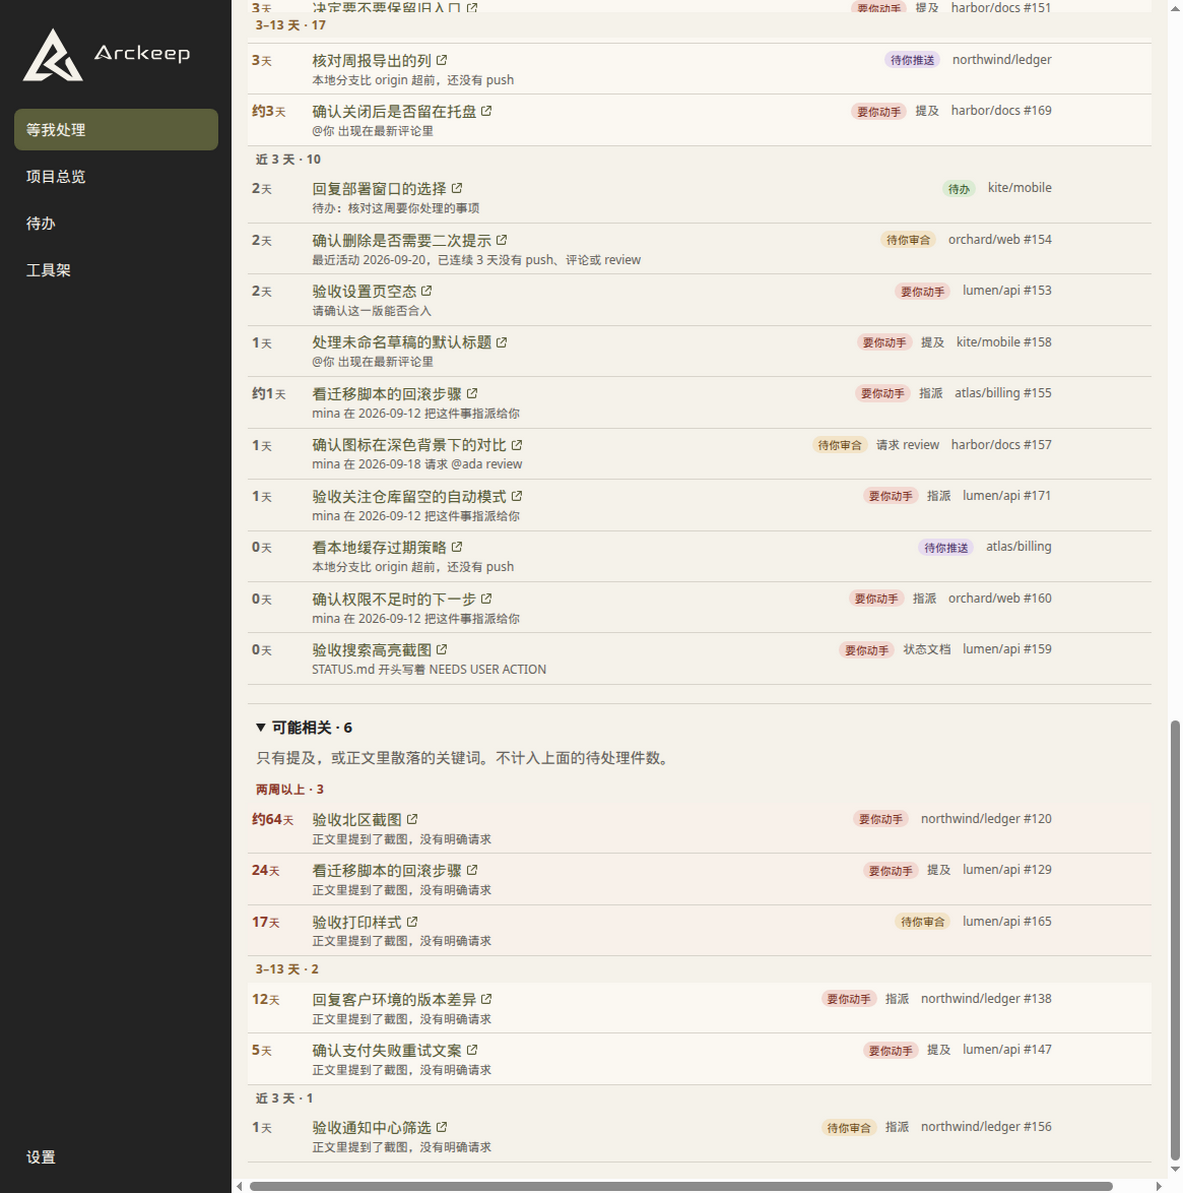
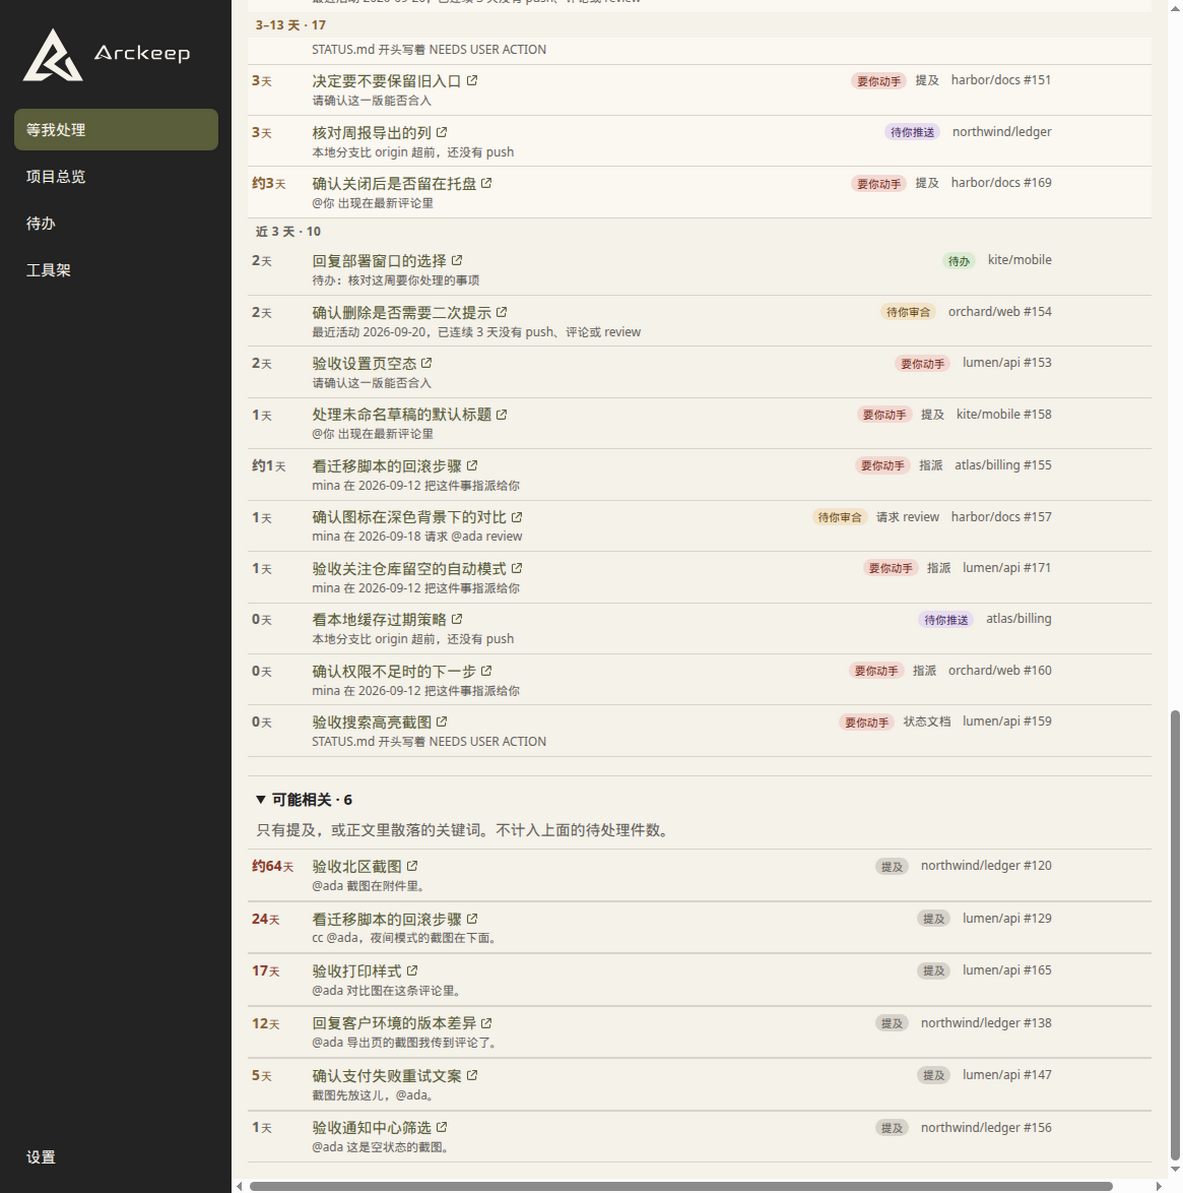
Keep weak rows from looking like work on the main list.
They use a gray mention label, show the matched sentence, stay one list, and start expanded only when the main list is empty.

Changed region(s): [[0.213, 0.0, 0.5782, 0.9925], [0.6695, 0.0, 0.9129, 0.6203], [0.6999, 0.6823, 0.9129, 0.9614]]

diff --git a/src/renderer/waiting-page.ts b/src/renderer/waiting-page.ts
@@ -10,6 +10,19 @@ const ACTION_CLASS: Record<string, string> = {
   '待办': 'act-todo'
 }
 
+/** Weak rows are not work items. They never wear the main-list action chip. */
+export const WEAK_ROW_LABEL = '提及'
+
+export function rowActionLabel(row: { tier: 'strong' | 'weak', action: string }): string | null {
+  if (row.tier === 'weak') return WEAK_ROW_LABEL
+  return row.action || '要你动手'
+}
+
+/** Open only when the main list has nothing else to show. */
+export function maybeSectionStartsOpen(mainCount: number): boolean {
+  return mainCount === 0
+}
+
 function el<K extends keyof HTMLElementTagNameMap>(
   tag: K,
   attrs: Record<string, string> = {},
@@ -147,7 +160,7 @@ function paint(host: HTMLElement, snapshot: WaitingSnapshot, handlers: {
     } else if (mainRows.length > 0) {
       page.append(renderGroups(mainRows, handlers))
     }
-    if (maybeRows.length > 0) page.append(renderMaybe(maybeRows, handlers))
+    if (maybeRows.length > 0) page.append(renderMaybe(maybeRows, handlers, maybeSectionStartsOpen(mainRows.length)))
   }
   host.replaceChildren(page)
 }
@@ -174,11 +187,14 @@ function renderMaybe(rows: readonly WaitingRow[], handlers: {
   hideRepo: (repo: string) => void
   open: (url: string) => void
   todos: () => void
-}): HTMLElement {
+}, startsOpen: boolean): HTMLElement {
   const details = el('details', { class: 'maybe-related' })
+  details.open = startsOpen
   details.append(el('summary', {}, [maybeRelatedLabel(rows.length)]))
   details.append(el('p', { class: 'hint' }, ['只有提及，或正文里散落的关键词。不计入上面的待处理件数。']))
-  details.append(renderGroups(rows, handlers))
+  const list = el('div', { class: 'maybe-list' })
+  for (const row of rows) list.append(renderRow(row, handlers))
+  details.append(list)
   return details
 }
 
@@ -240,12 +256,14 @@ function renderRow(row: WaitingRow, handlers: {
     }
     handlers.open(row.url)
   })
-  const actionName = row.action || '要你动手'
-  const chip = el('span', {
-    class: `chip chip-${ACTION_CLASS[actionName] ?? 'act-do'}`,
-    title: row.reasons.join(' · ')
-  }, [actionName])
-  const viaNames = row.reasons.filter(reason => PROVENANCE.has(reason))
+  const actionName = rowActionLabel(row)
+  const chip = actionName
+    ? el('span', {
+      class: row.tier === 'weak' ? 'chip chip-mention' : `chip chip-${ACTION_CLASS[actionName] ?? 'act-do'}`,
+      title: row.tier === 'weak' ? '不计入待处理件数' : row.reasons.join(' · ')
+    }, [actionName])
+    : null
+  const viaNames = row.tier === 'weak' ? [] : row.reasons.filter(reason => PROVENANCE.has(reason))
   const via = viaNames.length > 0
     ? el('span', { class: 'waiting-via' }, [viaNames.join(' · ')])
     : null
@@ -282,10 +300,15 @@ function renderRow(row: WaitingRow, handlers: {
     ])
     actions.append(snooze, ignore)
   }
-  const body = [days, title, chip, meta, actions]
+  const body: Array<Node | string | null> = [days, title, chip, meta, actions]
   if (via) body.splice(3, 0, via)
-  const reason = el('p', { class: 'waiting-reason' }, [row.signalText || row.reasons.join(' · ') || '等待'])
-  return el('div', { class: `waiting-row age-${age}${row.ignored ? ' is-ignored' : ''}` }, [...body, reason])
+  const excerpt = row.signalText.trim()
+  const reason = excerpt
+    ? el('p', { class: 'waiting-reason' }, [excerpt])
+    : row.tier === 'weak'
+      ? null
+      : el('p', { class: 'waiting-reason' }, [row.reasons.join(' · ') || '等待'])
+  return el('div', { class: `waiting-row age-${age}${row.ignored ? ' is-ignored' : ''}` }, [...body, reason].filter((node): node is Node | string => node != null))
 }
 
 export async function renderWaiting(

diff --git a/src/main/screenshot-run.ts b/src/main/screenshot-run.ts
@@ -318,7 +318,26 @@ export async function presentScreenshot(options: {
         if (!(details instanceof HTMLDetailsElement)) throw new Error('maybe section missing')
         const summary = details.querySelector('summary')?.textContent ?? ''
         if (!/^可能相关 · \\d+$/.test(summary.trim())) throw new Error('maybe header missing count: ' + summary)
-        details.open = ${scene === 'waiting-related-open' ? 'true' : 'false'}
+        const wantOpen = ${scene === 'waiting-related-open' || scene === 'waiting-maybe-only' ? 'true' : 'false'}
+        if (${scene === 'waiting-maybe-only' ? 'true' : 'false'} && !details.open) {
+          throw new Error('maybe section should start open when the main list is empty')
+        }
+        details.open = wantOpen
+        const weakText = details.innerText
+        if (weakText.includes('两周以上') || weakText.includes('3–13 天') || weakText.includes('近 3 天')) {
+          throw new Error('weak rows must stay one list')
+        }
+        if (${scene === 'waiting-related-open' || scene === 'waiting-maybe-only' ? 'true' : 'false'}) {
+          const chips = [...details.querySelectorAll('.waiting-row .chip')].map(chip => chip.textContent ?? '')
+          if (chips.length === 0) throw new Error('expanded weak rows missing')
+          if (chips.some(label => label.includes('要你动手'))) throw new Error('weak row still uses 要你动手')
+          if (!chips.every(label => label.trim() === '提及')) throw new Error('weak row label: ' + chips.join(','))
+          const excerpts = [...details.querySelectorAll('.waiting-reason')].map(node => node.textContent ?? '')
+          if (excerpts.some(text => text.includes('没有明确请求') || text.includes('正文里提到了'))) {
+            throw new Error('weak excerpt is commentary')
+          }
+          if (!excerpts.some(text => text.includes('@ada'))) throw new Error('weak excerpt is not source text')
+        }
         if (${scene === 'waiting-maybe-only' ? 'true' : 'false'}) {
           const text = document.body.innerText
           if (text.includes('全部处理完了')) throw new Error('all-done copy shown beside weak rows')
@@ -326,7 +345,7 @@ export async function presentScreenshot(options: {
             throw new Error('main list should be empty')
           }
         }
-        details.scrollIntoView({ block: ${scene === 'waiting-maybe-only' ? "'nearest'" : "'start'"} })
+        if (${scene === 'waiting-maybe-only' ? 'false' : 'true'}) details.scrollIntoView({ block: 'start' })
         true
       `)
       await new Promise(resolve => setTimeout(resolve, 80))

diff --git a/test/waiting-page.test.ts b/test/waiting-page.test.ts
@@ -1,5 +1,5 @@
 import { describe, expect, it } from 'vitest'
-import { maybeRelatedLabel, waitingEmptyCopy } from '../src/renderer/waiting-page.js'
+import { maybeRelatedLabel, maybeSectionStartsOpen, rowActionLabel, waitingEmptyCopy } from '../src/renderer/waiting-page.js'
 
 describe('waiting list empty states', () => {
   it('puts a count on the collapsed section header', () => {
@@ -12,6 +12,18 @@ describe('waiting list empty states', () => {
     expect(text).toBe('没有明确等你的事 · 另有 6 条可能相关')
     expect(text.includes('全部处理完了')).toBe(false)
     expect(text.includes('没有等你处理的事项')).toBe(false)
+  })
+
+  it('opens the weak section only when the main list is empty', () => {
+    expect(maybeSectionStartsOpen(0)).toBe(true)
+    expect(maybeSectionStartsOpen(12)).toBe(false)
+  })
+
+  it('labels a weak row as a mention and leaves strong rows on their action', () => {
+    expect(rowActionLabel({ tier: 'weak', action: '要你动手' })).toBe('提及')
+    expect(rowActionLabel({ tier: 'weak', action: '待你审合' })).toBe('提及')
+    expect(rowActionLabel({ tier: 'strong', action: '要你动手' })).toBe('要你动手')
+    expect(rowActionLabel({ tier: 'strong', action: '待你审合' })).toBe('待你审合')
   })
 
   it('uses the all-clear line only when both tiers are empty', () => {

diff --git a/src/shared/waiting/sample.ts b/src/shared/waiting/sample.ts
@@ -39,6 +39,15 @@ const TITLES = [
   '验收关注仓库留空的自动模式'
 ]
 
+const WEAK_EXCERPTS = [
+  '@ada 截图在附件里。',
+  'cc @ada，夜间模式的截图在下面。',
+  '@ada 导出页的截图我传到评论了。',
+  '截图先放这儿，@ada。',
+  '@ada 这是空状态的截图。',
+  '@ada 对比图在这条评论里。'
+]
+
 const REASON_SETS = [
   ['要人动手'],
   ['待你审/合'],
@@ -68,7 +77,7 @@ export function sampleWaitingRows(): WaitingRow[] {
     const reasons = REASON_SETS[index % REASON_SETS.length] ?? ['要人动手']
     const tier = index % 9 === 0 ? 'weak' as const : 'strong' as const
     const signalText = tier === 'weak'
-      ? '正文里提到了截图，没有明确请求'
+      ? (WEAK_EXCERPTS[Math.floor(index / 9) % WEAK_EXCERPTS.length] ?? '@ada 截图在附件里。')
       : reasons.includes('待你审/合')
         ? '最近活动 2026-09-20，已连续 3 天没有 push、评论或 review'
         : reasons.includes('请求 review')

diff --git a/src/main/screenshot-scene.ts b/src/main/screenshot-scene.ts
@@ -87,7 +87,7 @@ export function screenshotWindowSize(scene: ScreenshotScene): { width: number, h
   if (scene === 'waiting-watch' || scene === 'waiting-family') return { width: 1180, height: 720 }
   if (scene === 'overview-archived') return { width: 1180, height: 820 }
   if (scene === 'overview-settings') return { width: 1120, height: 1280 }
-  if (scene === 'waiting-maybe-only') return { width: 1180, height: 720 }
+  if (scene === 'waiting-maybe-only') return { width: 1180, height: 980 }
   if (scene === 'waiting' || scene === 'waiting-rate-limit' || scene === 'waiting-related' || scene === 'waiting-related-open' || scene === 'overview' || scene === 'overview-collapsed') return { width: 1180, height: 1680 }
   if (scene === 'nav' || scene === 'todos-empty') return { width: 1120, height: 760 }
   if (scene === 'todos' || scene === 'todos-filter' || scene === 'todos-delete') {

diff --git a/src/shared/waiting/classify.ts b/src/shared/waiting/classify.ts
@@ -261,7 +261,7 @@ export function classifyRecord(record: GithubRecord, config: WaitingConfig, now:
     const keywords = compileUserRegexList(config.humanKeywords, '人工动作关键词')
     const resolved = compileUserRegexList(config.resolvedSignals, '已解决信号')
     const excerpt = waitingExcerpt(record.body, record.comments, keywords, resolved)
-    signal = signal ?? { rule: '提及', excerpt: excerpt || '提及了你' }
+    signal = signal ?? { rule: '提及', excerpt: excerpt ?? '' }
   }
   const spec = record.kind === 'issue' && isSpecIssue(record.title, record.labels, record.body, config.specMarkers)
   if (tier !== 'strong' && !closed && humanAllowed && !spec) {

diff --git a/src/renderer/styles.css b/src/renderer/styles.css
@@ -536,6 +536,10 @@ textarea {
   margin: 4px 8px 8px;
 }
 
+.maybe-list .waiting-row {
+  border-top: 1px solid var(--arckeep-soft-stone);
+}
+
 .auth-alert {
   display: flex;
   align-items: center;
@@ -662,6 +666,7 @@ textarea {
   white-space: nowrap;
 }
 
+.chip-mention { background: var(--arckeep-soft-stone); color: var(--arckeep-muted-graphite); }
 .chip-act-do { background: #F3D9D2; color: #7A2E22; }
 .chip-act-review { background: #F3E4C8; color: #6A4A16; }
 .chip-act-push { background: #E8DDF0; color: #4C3268; }

diff --git a/src/shared/waiting/snooze.ts b/src/shared/waiting/snooze.ts
@@ -104,7 +104,7 @@ export function partitionDismissals(
       parentNumber: draft.parentNumber,
       parent: draft.parent,
       childCount: 0,
-      signalText: draft.signal.excerpt || draft.signal.rule,
+      signalText: draft.tier === 'weak' ? draft.signal.excerpt.trim() : (draft.signal.excerpt || draft.signal.rule),
       tier: draft.tier
     })
   }
